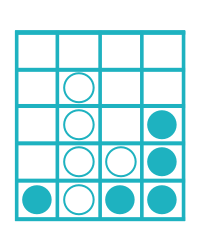
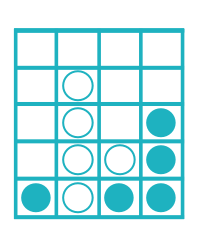
changed css to use navigation id instead of ul, changed c4 pic

Changed region(s): [[0.06, 0.112, 0.93, 0.896]]

diff --git a/CSS/styles.css b/CSS/styles.css
@@ -20,8 +20,8 @@ body {
 	margin: 0px;
 }
 
-ul {
-	width: 570px;
+#navigation {
+	width: 500px;
 	padding: 15px;
 	margin: 0px auto 2px auto;
 	border-bottom: 1px solid rgb(30, 178, 192);
